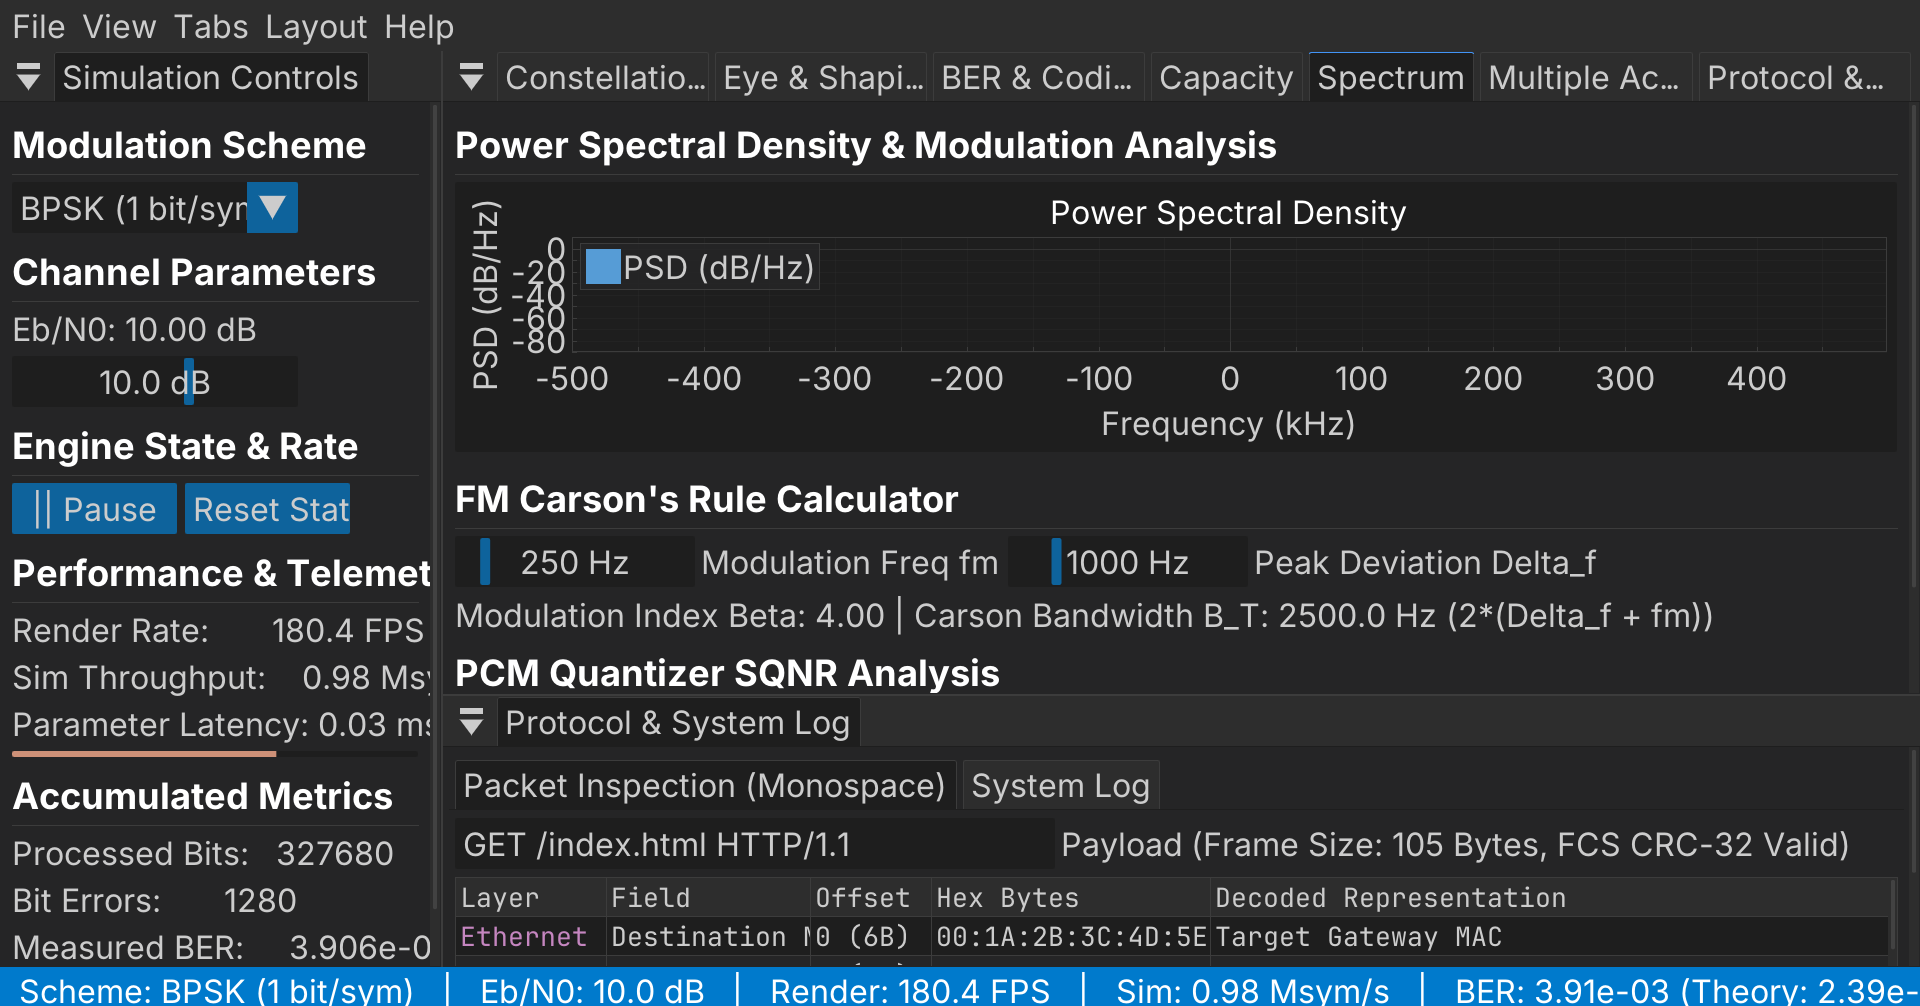
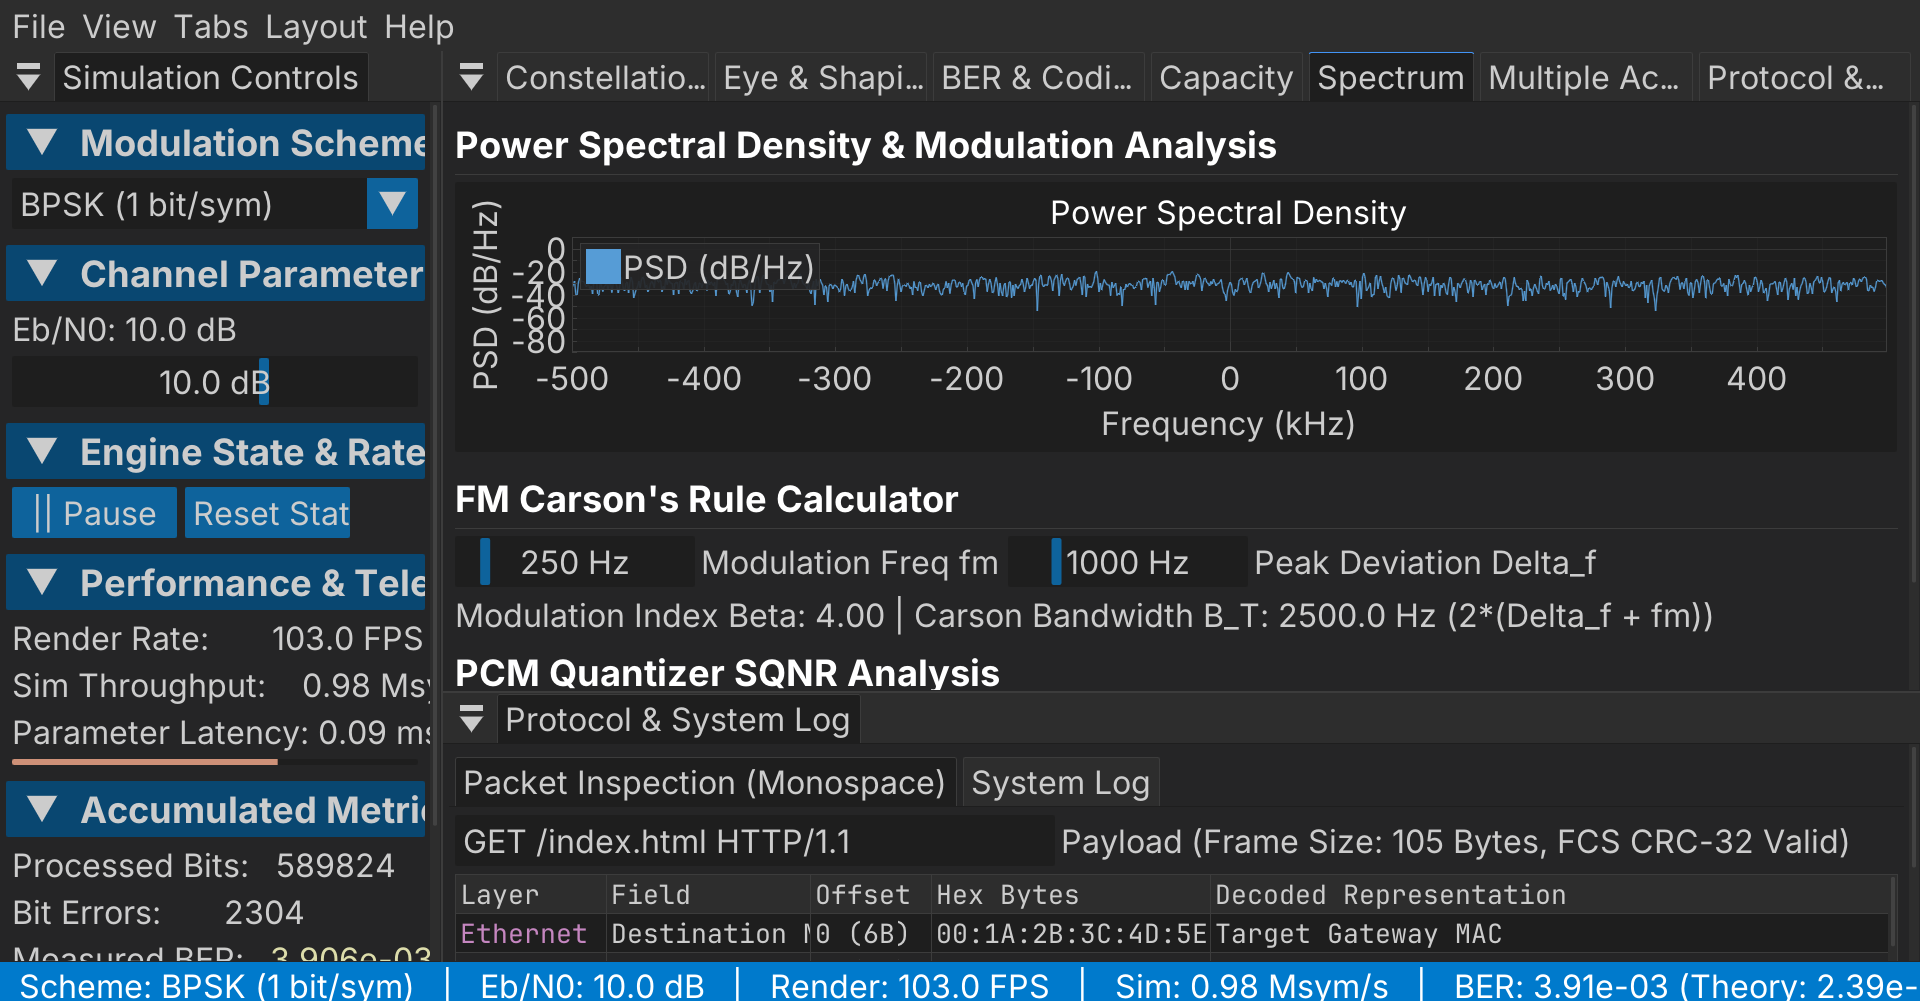
fix(spectrum): enable pass-through in SpectrumProbe and fix DAG pipeline connections

diff --git a/engine/sim_controller.hpp b/engine/sim_controller.hpp
@@ -432,7 +432,7 @@ private:
             g->connect(isi_id, 0, awgn_id, 0);
             g->connect(awgn_id, 0, wf_id, 0);       // Continuous waveform probe
             g->connect(wf_id, 0, spec_id, 0);       // Spectrum probe
-            g->connect(wf_id, 0, rx_mf_id, 0);
+            g->connect(spec_id, 0, rx_mf_id, 0);    // Forward to matched filter
             g->connect(rx_mf_id, 0, eye_id, 0);     // Eye probe after matched filter
             g->connect(eye_id, 0, down_id, 0);      // Downsample at decision instant
             g->connect(down_id, 0, constel_id, 0);  // Constellation of sampled symbols
@@ -525,7 +525,7 @@ private:
             g->connect(isi_id, 0, awgn_id, 0);
             g->connect(awgn_id, 0, wf_id, 0);       // Tap noisy symbols to waveform probe
             g->connect(wf_id, 0, spec_id, 0);      // Tap to spectrum probe
-            g->connect(wf_id, 0, constel_id, 0);   // Tap to constellation probe
+            g->connect(spec_id, 0, constel_id, 0); // Forward to constellation probe
             g->connect(constel_id, 0, eye_id, 0);  // Tap to eye probe
             g->connect(eye_id, 0, demod_id, 0);
             g->connect(demod_id, 0, probe_id, 1);  // RX bits

diff --git a/blocks/probe/spectrum_probe.hpp b/blocks/probe/spectrum_probe.hpp
@@ -179,12 +179,17 @@ public:
     }
 
     void work(const std::vector<engine::Stream<engine::cf>*>& in,
-              std::vector<engine::Stream<engine::cf>*>& /*out*/,
+              std::vector<engine::Stream<engine::cf>*>& out,
               size_t n) override {
         if (in.empty() || !in[0]) return;
         const auto& s = in[0]->buf;
         const size_t in_n = s.empty() ? n : s.size();
         if (in_n == 0) return;
+
+        if (!out.empty() && out[0]) {
+            out[0]->resize(in_n);
+            out[0]->buf = in[0]->buf;
+        }
 
         std::vector<float> f_out;
         auto psd = FftCore::computePsdDb(s, n_fft_, &f_out, fs_);
